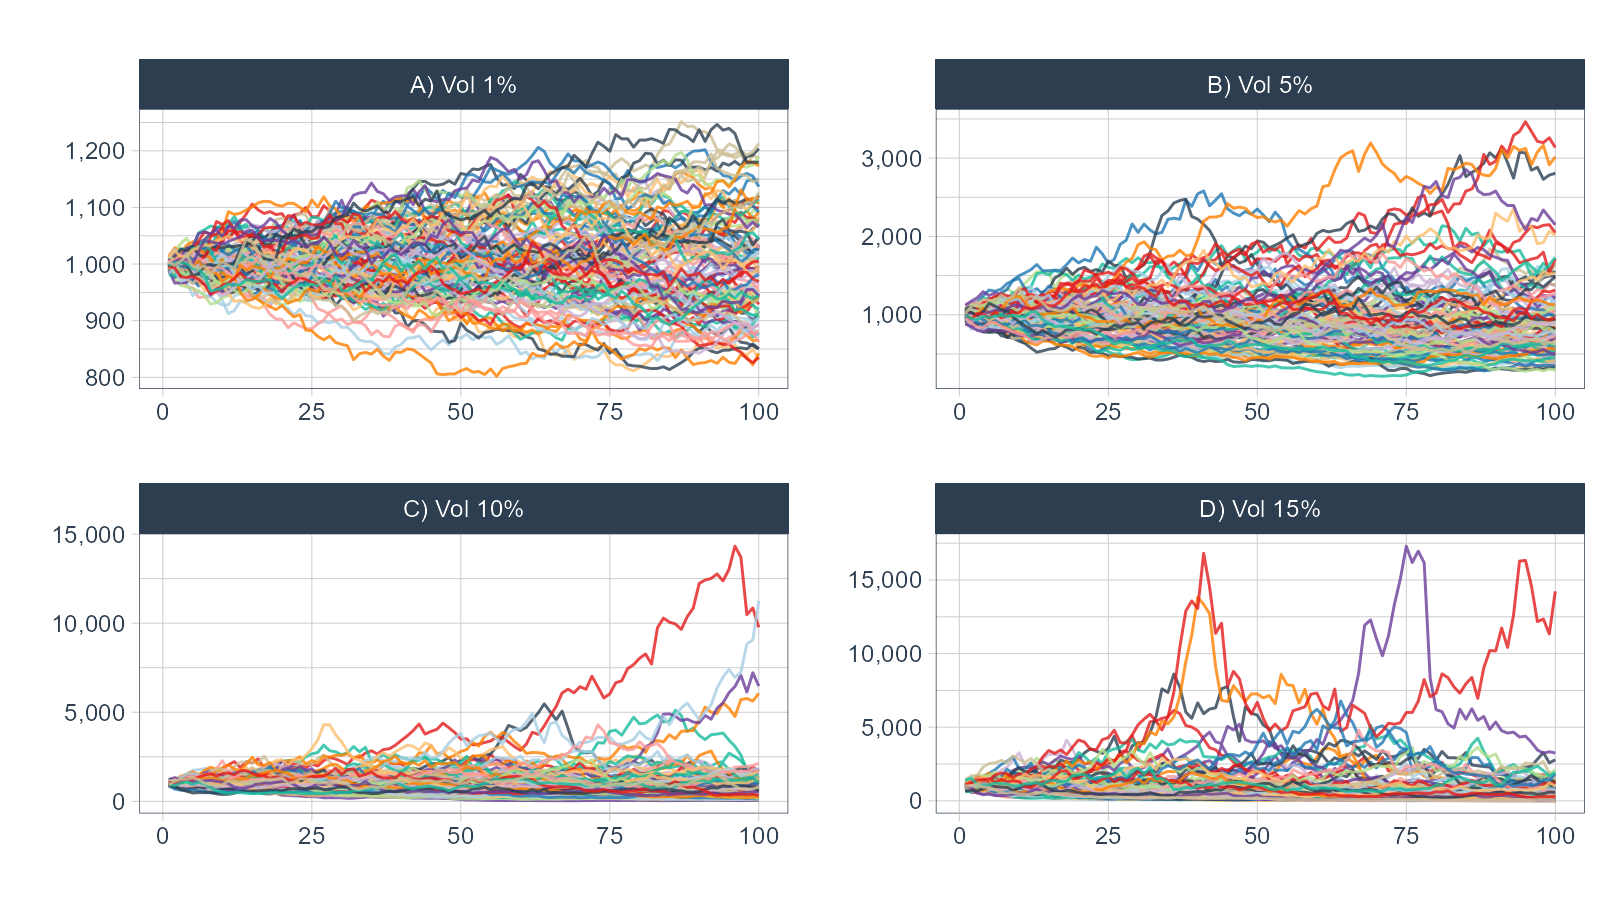
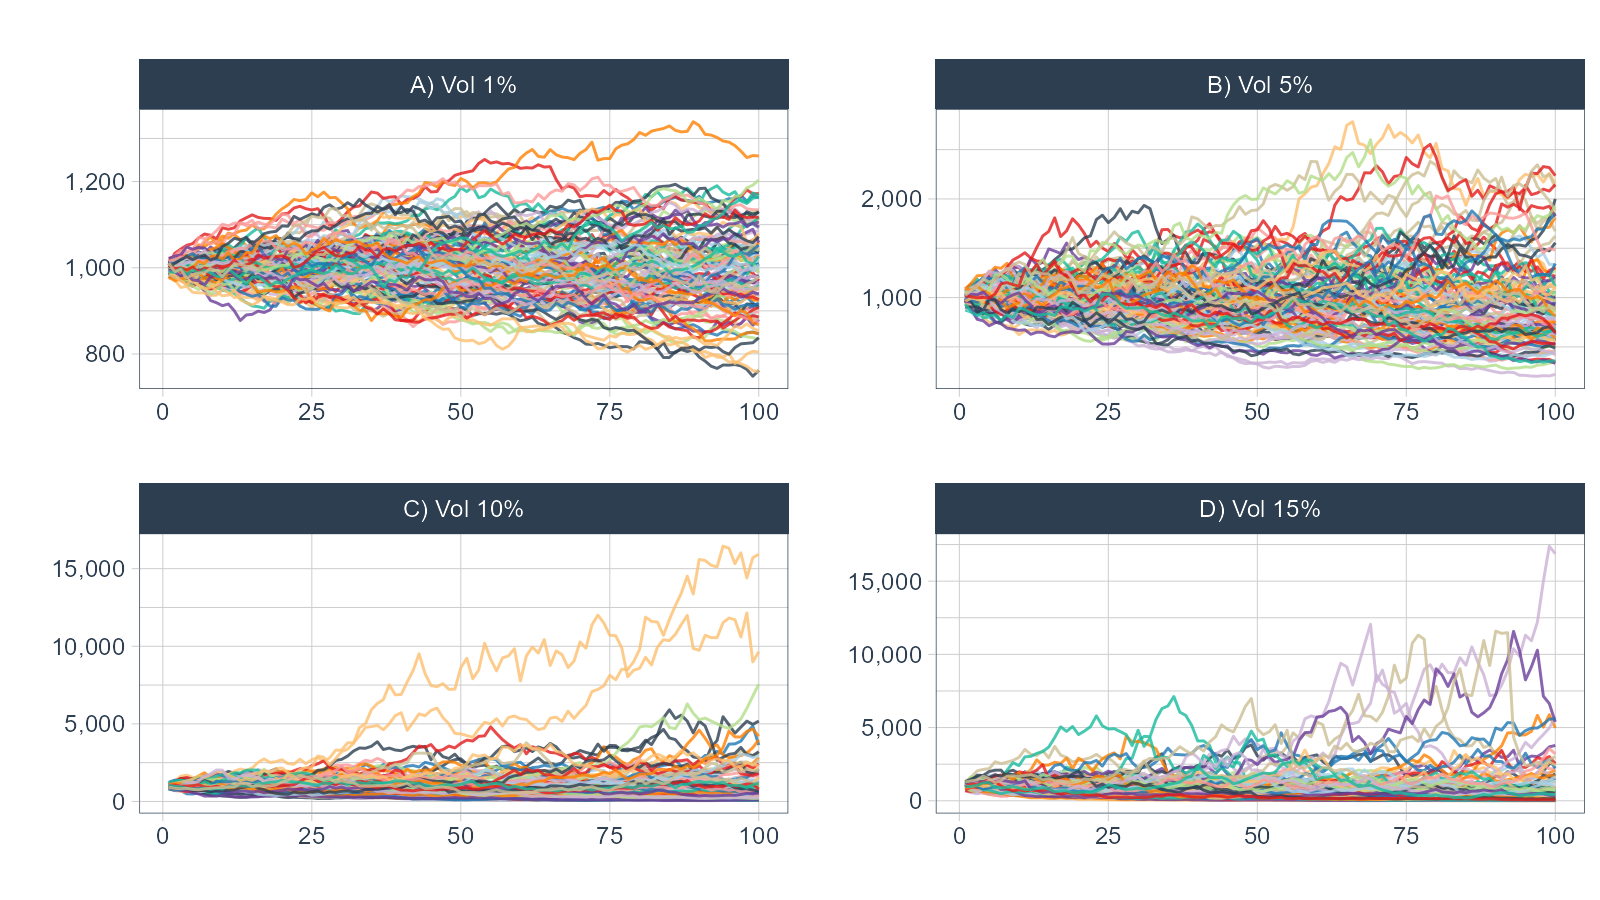
update site

diff --git a/docs/articles/getting-started.html b/docs/articles/getting-started.html
@@ -37,7 +37,7 @@
       </button>
       <span class="navbar-brand">
         <a class="navbar-link" href="../index.html">healthyR.ts</a>
-        <span class="version label label-default" data-toggle="tooltip" data-placement="bottom" title="Released version">0.1.1</span>
+        <span class="version label label-default" data-toggle="tooltip" data-placement="bottom" title="Released version">0.1.1.9000</span>
       </span>
     </div>
 
@@ -93,7 +93,7 @@
             <h3 class="subtitle">A Quick Introduction</h3>
                         <h4 class="author">Steven P. Sanderson II, MPH</h4>
             
-            <h4 class="date">2021-02-09</h4>
+            <h4 class="date">2021-02-12</h4>
       
       <small class="dont-index">Source: <a href="https://github.com/spsanderson/healthyR.ts/blob/master/vignettes/getting-started.Rmd"><code>vignettes/getting-started.Rmd</code></a></small>
       <div class="hidden name"><code>getting-started.Rmd</code></div>
@@ -114,19 +114,19 @@
 <span class="co">#&gt; # A tibble: 6 x 4</span>
 <span class="co">#&gt;     run     x        y cum_y</span>
 <span class="co">#&gt;   &lt;dbl&gt; &lt;dbl&gt;    &lt;dbl&gt; &lt;dbl&gt;</span>
-<span class="co">#&gt; 1     1     1  0.00435 1004.</span>
-<span class="co">#&gt; 2     1     2  0.0847  1089.</span>
-<span class="co">#&gt; 3     1     3  0.0423  1136.</span>
-<span class="co">#&gt; 4     1     4 -0.0943  1028.</span>
-<span class="co">#&gt; 5     1     5  0.0322  1062.</span>
-<span class="co">#&gt; 6     1     6 -0.166    885.</span>
+<span class="co">#&gt; 1     1     1 -0.0409   959.</span>
+<span class="co">#&gt; 2     1     2  0.00220  961.</span>
+<span class="co">#&gt; 3     1     3  0.0186   979.</span>
+<span class="co">#&gt; 4     1     4 -0.0284   951.</span>
+<span class="co">#&gt; 5     1     5  0.0898  1037.</span>
+<span class="co">#&gt; 6     1     6  0.0753  1115.</span>
 <span class="fu"><a href="https://tibble.tidyverse.org/reference/glimpse.html">glimpse</a></span><span class="op">(</span><span class="va">df</span><span class="op">)</span>
 <span class="co">#&gt; Rows: 10,000</span>
 <span class="co">#&gt; Columns: 4</span>
 <span class="co">#&gt; $ run   &lt;dbl&gt; 1, 1, 1, 1, 1, 1, 1, 1, 1, 1, 1, 1, 1, 1, 1, 1, 1, 1, 1, 1, 1...</span>
 <span class="co">#&gt; $ x     &lt;dbl&gt; 1, 2, 3, 4, 5, 6, 7, 8, 9, 10, 11, 12, 13, 14, 15, 16, 17, 18...</span>
-<span class="co">#&gt; $ y     &lt;dbl&gt; 0.004351719, 0.084694212, 0.042311830, -0.094306555, 0.032217...</span>
-<span class="co">#&gt; $ cum_y &lt;dbl&gt; 1004.3517, 1089.4145, 1135.5096, 1028.4236, 1061.5566, 885.05...</span></code></pre></div>
+<span class="co">#&gt; $ y     &lt;dbl&gt; -0.040939546, 0.002204474, 0.018592983, -0.028379136, 0.08975...</span>
+<span class="co">#&gt; $ cum_y &lt;dbl&gt; 959.0605, 961.1747, 979.0458, 951.2613, 1036.6417, 1114.7209,...</span></code></pre></div>
 <p>Now that the data has been generated, lets take a look at it.</p>
 <div class="sourceCode" id="cb3"><pre class="downlit sourceCode r">
 <code class="sourceCode R"><span class="va">df</span> <span class="op">%&gt;%</span>

diff --git a/docs/news/index.html b/docs/news/index.html
@@ -81,7 +81,7 @@
       </button>
       <span class="navbar-brand">
         <a class="navbar-link" href="../index.html">healthyR.ts</a>
-        <span class="version label label-default" data-toggle="tooltip" data-placement="bottom" title="Released version">0.1.1</span>
+        <span class="version label label-default" data-toggle="tooltip" data-placement="bottom" title="Released version">0.1.1.9000</span>
       </span>
     </div>
 
@@ -137,23 +137,30 @@
       <small>Source: <a href='https://github.com/spsanderson/healthyR.ts/blob/master/NEWS.md'><code>NEWS.md</code></a></small>
     </div>
 
-    <div id="healthyrts-011" class="section level1">
-<h1 class="page-header" data-toc-text="0.1.1">
-<a href="#healthyrts-011" class="anchor"></a>healthyR.ts 0.1.1<small> Unreleased </small>
+    <div id="healthyrts-development-version" class="section level1">
+<h1 class="page-header" data-toc-text="development version">
+<a href="#healthyrts-development-version" class="anchor"></a>healthyR.ts (development version)<small> Unreleased </small>
 </h1>
 </div>
-    <div id="healthyrts-011-1" class="section level1">
-<h1 class="page-header" data-toc-text="0.1.1">
-<a href="#healthyrts-011-1" class="anchor"></a>healthyR.ts 0.1.1<small> Unreleased </small>
+    <div id="healthyrts-0119000" class="section level1">
+<h1 class="page-header" data-toc-text="0.1.1.9000">
+<a href="#healthyrts-0119000" class="anchor"></a>healthyR.ts 0.1.1.9000<small> Unreleased </small>
 </h1>
 <ul>
+<li>New Dev Version</li>
+</ul>
+<div id="healthyrts-011" class="section level2">
+<h2 class="hasAnchor">
+<a href="#healthyrts-011" class="anchor"></a>healthyR.ts 0.1.1</h2>
+<ul>
 <li>update DESCRIPTION file and minor cleanups</li>
+<li>GitHub release: <a href="https://github.com/spsanderson/healthyR.ts/releases/tag/v0.1.1" class="uri">https://github.com/spsanderson/healthyR.ts/releases/tag/v0.1.1</a>
+</li>
 </ul>
 </div>
-    <div id="healthyrts-010" class="section level1">
-<h1 class="page-header" data-toc-text="0.1.0">
-<a href="#healthyrts-010" class="anchor"></a>healthyR.ts 0.1.0<small> 2021-01-22 </small>
-</h1>
+<div id="healthyrts-010" class="section level2">
+<h2 class="hasAnchor">
+<a href="#healthyrts-010" class="anchor"></a>healthyR.ts 0.1.0</h2>
 <ul>
 <li>Added functions</li>
 </ul>
@@ -161,6 +168,7 @@
 <li>ts_qc_run_chart</li>
 <li>ts_compare_data</li>
 </ol>
+</div>
 <div id="healthyrts-0009001" class="section level2">
 <h2 class="hasAnchor">
 <a href="#healthyrts-0009001" class="anchor"></a>healthyR.ts 0.0.0.9001</h2>

diff --git a/docs/reference/ts_qc_run_chart.html b/docs/reference/ts_qc_run_chart.html
@@ -87,7 +87,7 @@ process behavior over time." />
       </button>
       <span class="navbar-brand">
         <a class="navbar-link" href="../index.html">healthyR.ts</a>
-        <span class="version label label-default" data-toggle="tooltip" data-placement="bottom" title="Released version">0.1.1</span>
+        <span class="version label label-default" data-toggle="tooltip" data-placement="bottom" title="Released version">0.1.1.9000</span>
       </span>
     </div>
 

diff --git a/docs/reference/tidyeval.html b/docs/reference/tidyeval.html
@@ -114,7 +114,7 @@ section of Advanced R." />
       </button>
       <span class="navbar-brand">
         <a class="navbar-link" href="../index.html">healthyR.ts</a>
-        <span class="version label label-default" data-toggle="tooltip" data-placement="bottom" title="Released version">0.1.1</span>
+        <span class="version label label-default" data-toggle="tooltip" data-placement="bottom" title="Released version">0.1.1.9000</span>
       </span>
     </div>
 

diff --git a/docs/reference/ts_compare_data.html b/docs/reference/ts_compare_data.html
@@ -85,7 +85,7 @@ this function." />
       </button>
       <span class="navbar-brand">
         <a class="navbar-link" href="../index.html">healthyR.ts</a>
-        <span class="version label label-default" data-toggle="tooltip" data-placement="bottom" title="Released version">0.1.1</span>
+        <span class="version label label-default" data-toggle="tooltip" data-placement="bottom" title="Released version">0.1.1.9000</span>
       </span>
     </div>
 

diff --git a/docs/articles/index.html b/docs/articles/index.html
@@ -81,7 +81,7 @@
       </button>
       <span class="navbar-brand">
         <a class="navbar-link" href="../index.html">healthyR.ts</a>
-        <span class="version label label-default" data-toggle="tooltip" data-placement="bottom" title="Released version">0.1.1</span>
+        <span class="version label label-default" data-toggle="tooltip" data-placement="bottom" title="Released version">0.1.1.9000</span>
       </span>
     </div>
 

diff --git a/docs/reference/index.html b/docs/reference/index.html
@@ -81,7 +81,7 @@
       </button>
       <span class="navbar-brand">
         <a class="navbar-link" href="../index.html">healthyR.ts</a>
-        <span class="version label label-default" data-toggle="tooltip" data-placement="bottom" title="Released version">0.1.1</span>
+        <span class="version label label-default" data-toggle="tooltip" data-placement="bottom" title="Released version">0.1.1.9000</span>
       </span>
     </div>
 

diff --git a/docs/reference/pipe.html b/docs/reference/pipe.html
@@ -82,7 +82,7 @@
       </button>
       <span class="navbar-brand">
         <a class="navbar-link" href="../index.html">healthyR.ts</a>
-        <span class="version label label-default" data-toggle="tooltip" data-placement="bottom" title="Released version">0.1.1</span>
+        <span class="version label label-default" data-toggle="tooltip" data-placement="bottom" title="Released version">0.1.1.9000</span>
       </span>
     </div>
 

diff --git a/docs/reference/ts_random_walk.html b/docs/reference/ts_random_walk.html
@@ -82,7 +82,7 @@
       </button>
       <span class="navbar-brand">
         <a class="navbar-link" href="../index.html">healthyR.ts</a>
-        <span class="version label label-default" data-toggle="tooltip" data-placement="bottom" title="Released version">0.1.1</span>
+        <span class="version label label-default" data-toggle="tooltip" data-placement="bottom" title="Released version">0.1.1.9000</span>
       </span>
     </div>
 

diff --git a/docs/reference/ts_random_walk_ggplot_layers.html b/docs/reference/ts_random_walk_ggplot_layers.html
@@ -82,7 +82,7 @@
       </button>
       <span class="navbar-brand">
         <a class="navbar-link" href="../index.html">healthyR.ts</a>
-        <span class="version label label-default" data-toggle="tooltip" data-placement="bottom" title="Released version">0.1.1</span>
+        <span class="version label label-default" data-toggle="tooltip" data-placement="bottom" title="Released version">0.1.1.9000</span>
       </span>
     </div>
 

diff --git a/docs/404.html b/docs/404.html
@@ -81,7 +81,7 @@
       </button>
       <span class="navbar-brand">
         <a class="navbar-link" href="index.html">healthyR.ts</a>
-        <span class="version label label-default" data-toggle="tooltip" data-placement="bottom" title="Released version">0.1.1</span>
+        <span class="version label label-default" data-toggle="tooltip" data-placement="bottom" title="Released version">0.1.1.9000</span>
       </span>
     </div>
 

diff --git a/docs/LICENSE-text.html b/docs/LICENSE-text.html
@@ -81,7 +81,7 @@
       </button>
       <span class="navbar-brand">
         <a class="navbar-link" href="index.html">healthyR.ts</a>
-        <span class="version label label-default" data-toggle="tooltip" data-placement="bottom" title="Released version">0.1.1</span>
+        <span class="version label label-default" data-toggle="tooltip" data-placement="bottom" title="Released version">0.1.1.9000</span>
       </span>
     </div>
 
